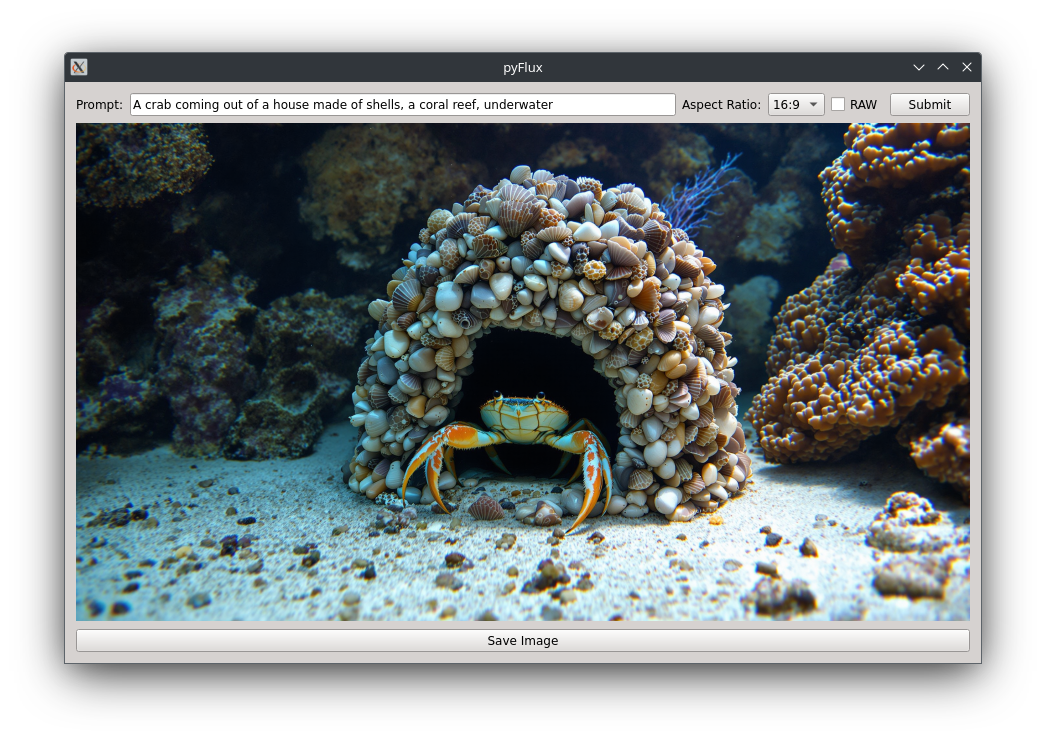
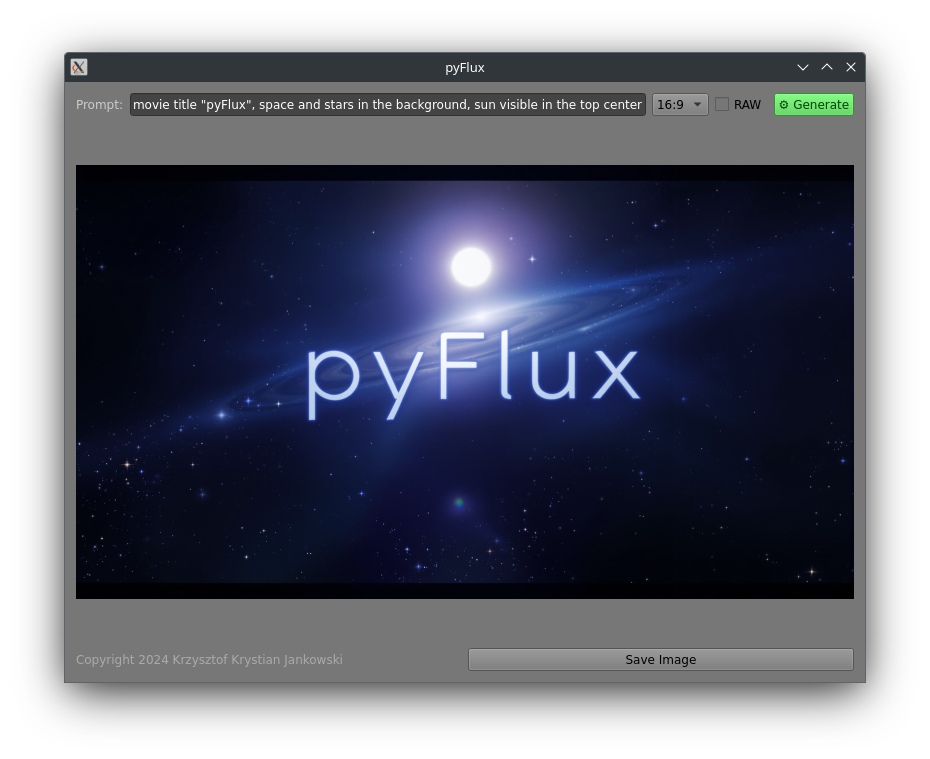
dark mode

diff --git a/app.py b/app.py
@@ -37,6 +37,9 @@ class App(QWidget):
         self.title = 'pyFlux'
         self.check_api_key()
         self.initUI()
+        self.setStyleSheet("background-color: #777;")
+        self.prompt_input.setText(open('last-prompt.txt').read())
+
 
     def check_api_key(self):
         config_file = 'api-key.txt'
@@ -67,13 +70,12 @@ class App(QWidget):
         top_row = QHBoxLayout()
 
         self.prompt_label = QLabel('Prompt:', self)
+        self.prompt_label.setStyleSheet("color: #ccc;")
         top_row.addWidget(self.prompt_label)
 
         self.prompt_input = QLineEdit(self)
+        self.prompt_input.setStyleSheet("background-color: #444; color: #fff;")
         top_row.addWidget(self.prompt_input)
-
-        self.aspect_ratio_label = QLabel('Aspect Ratio:', self)
-        top_row.addWidget(self.aspect_ratio_label)
 
         self.aspect_ratio_var = QComboBox(self)
         self.aspect_ratio_var.addItems(['16:9', '4:3', '1:1', '21:9', '3:4'])
@@ -84,6 +86,7 @@ class App(QWidget):
 
         self.submit_button = QPushButton('⚙ Generate', self)
         self.submit_button.clicked.connect(self.on_submit)
+        self.submit_button.setStyleSheet("background-color: #4c4; color: #040;")
         top_row.addWidget(self.submit_button)
 
         layout.addLayout(top_row)
@@ -92,10 +95,18 @@ class App(QWidget):
         self.image_label.setAlignment(Qt.AlignCenter)
         layout.addWidget(self.image_label)
 
+        bottom_row = QHBoxLayout()
+
+        self.about_label = QLabel('Copyright 2024 Krzysztof Krystian Jankowski', self)
+        self.about_label.setStyleSheet("color: #aaa;")
+        bottom_row.addWidget(self.about_label)
+
         self.save_button = QPushButton('Save Image', self)
         self.save_button.clicked.connect(self.save_image)
         self.save_button.setEnabled(False)
-        layout.addWidget(self.save_button)
+        bottom_row.addWidget(self.save_button)
+
+        layout.addLayout(bottom_row)
 
         self.setLayout(layout)
 
